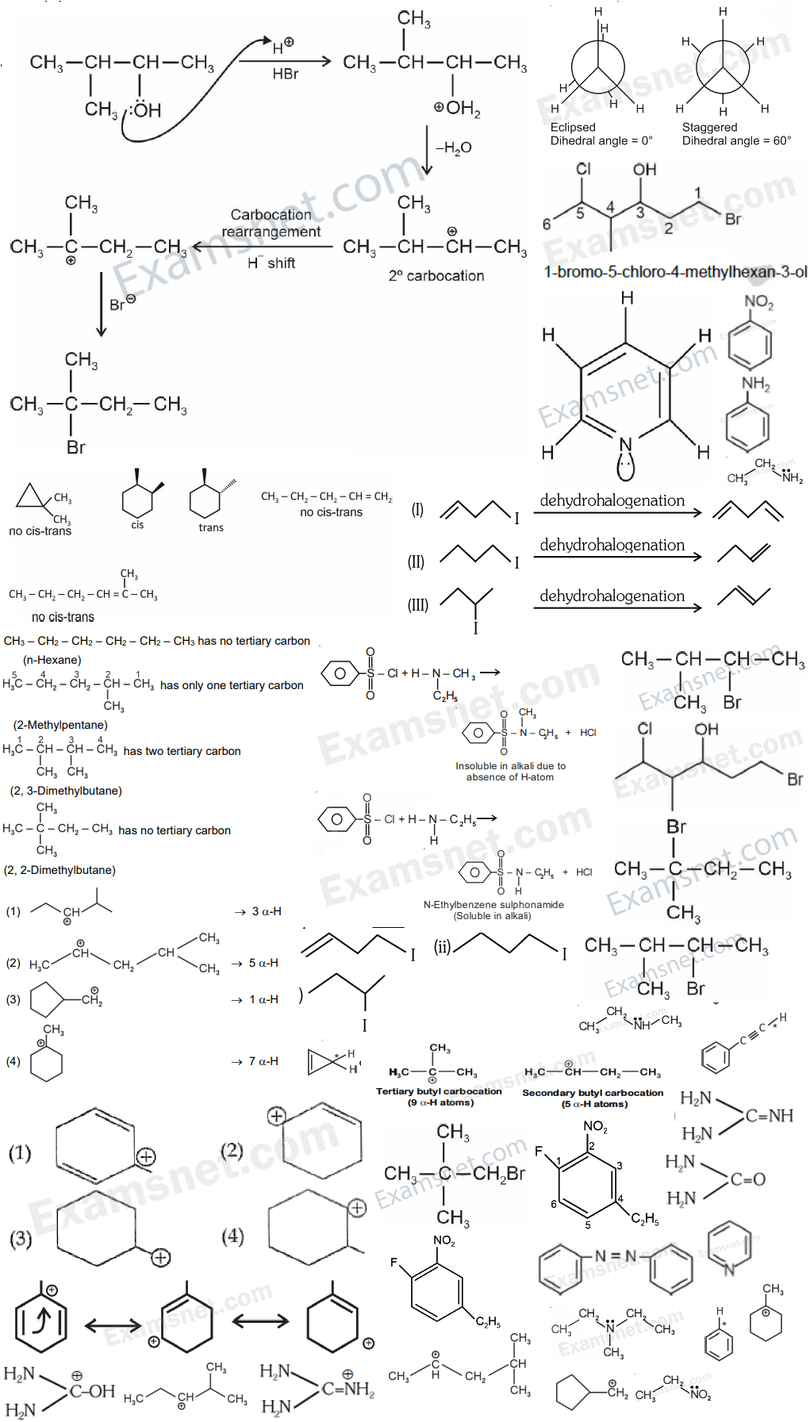
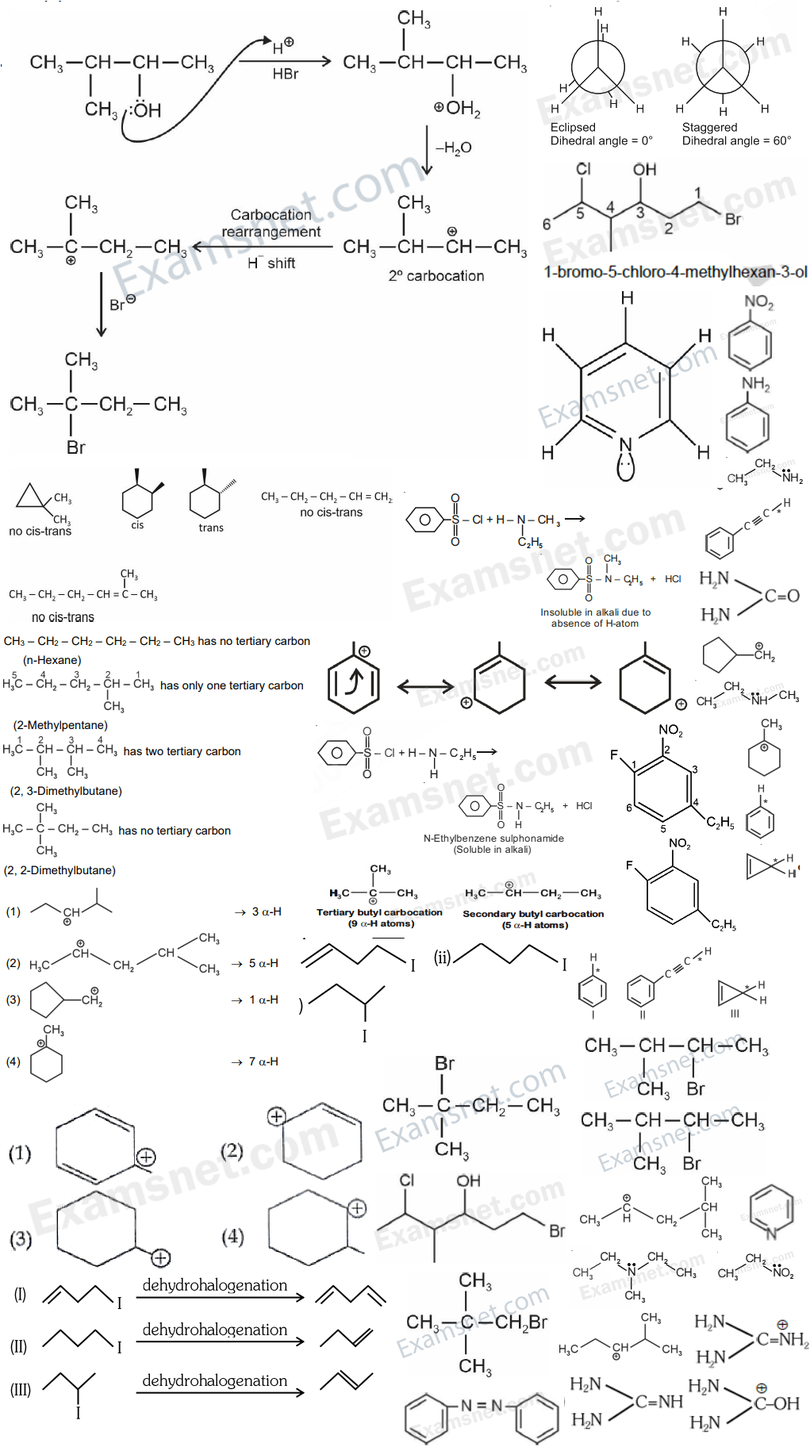
fexed

diff --git a/img/medical/neet/chchap/ch_xi_ch12_2.css b/img/medical/neet/chchap/ch_xi_ch12_2.css
@@ -7,131 +7,134 @@ Responsive: <div class="yourspritesname"></div>
 */
 
 .NEET_2020_62_PHY_CHEM_sol {max-width:379px; max-height:96px; }
-.NEET_2020_62_PHY_CHEM_sol::after {content: '\00a0';display: inline-block; width:379px; height:96px; background-position: 73.20872274143302% 77.25397760754272%; background-size: 269.39313984168865% 1867.7083333333333%; background-image: url(ch_xi_ch12_2_0.png);padding: 0; }
+.NEET_2020_62_PHY_CHEM_sol::after {content: '\00a0';display: inline-block; width:379px; height:96px; background-position: 61.52647975077882% 62.60819388343912%; background-size: 269.39313984168865% 1905.2083333333333%; background-image: url(ch_xi_ch12_2_0.png);padding: 0; }
 div.NEET_2020_62_PHY_CHEM_sol::after {max-width:379px; width:100%;height:0;padding: 0 0 25.329815303430077% 0;}
 .NEET_2021_Physics_and_Chemistry_58_s {max-width:328px; max-height:196px; }
-.NEET_2021_Physics_and_Chemistry_58_s::after {content: '\00a0';display: inline-block; width:328px; height:196px; background-position: 97.54689754689754% 0.06261740763932373%; background-size: 311.280487804878% 914.795918367347%; background-image: url(ch_xi_ch12_2_0.png);padding: 0; }
+.NEET_2021_Physics_and_Chemistry_58_s::after {content: '\00a0';display: inline-block; width:328px; height:196px; background-position: 97.54689754689754% 0.0612369871402327%; background-size: 311.280487804878% 933.1632653061224%; background-image: url(ch_xi_ch12_2_0.png);padding: 0; }
 div.NEET_2021_Physics_and_Chemistry_58_s::after {max-width:328px; width:100%;height:0;padding: 0 0 59.75609756097561% 0;}
 .NEET_2021_Physics_and_Chemistry_84_o_1 {max-width:99px; max-height:51px; }
-.NEET_2021_Physics_and_Chemistry_84_o_1::after {content: '\00a0';display: inline-block; width:99px; height:51px; background-position: 86.76789587852494% 98.90929965556832%; background-size: 1031.3131313131314% 3515.6862745098038%; background-image: url(ch_xi_ch12_2_0.png);padding: 0; }
+.NEET_2021_Physics_and_Chemistry_84_o_1::after {content: '\00a0';display: inline-block; width:99px; height:51px; background-position: 98.0477223427332% 88.24521934758155%; background-size: 1031.3131313131314% 3586.274509803922%; background-image: url(ch_xi_ch12_2_0.png);padding: 0; }
 div.NEET_2021_Physics_and_Chemistry_84_o_1::after {max-width:99px; width:100%;height:0;padding: 0 0 51.515151515151516% 0;}
 .NEET_2021_Physics_and_Chemistry_84_o_2 {max-width:147px; max-height:45px; }
-.NEET_2021_Physics_and_Chemistry_84_o_2::after {content: '\00a0';display: inline-block; width:147px; height:45px; background-position: 82.83752860411899% 72.31121281464532%; background-size: 694.5578231292517% 3984.4444444444443%; background-image: url(ch_xi_ch12_2_0.png);padding: 0; }
+.NEET_2021_Physics_and_Chemistry_84_o_2::after {content: '\00a0';display: inline-block; width:147px; height:45px; background-position: 99.77116704805492% 47.869955156950674%; background-size: 694.5578231292517% 4064.4444444444443%; background-image: url(ch_xi_ch12_2_0.png);padding: 0; }
 div.NEET_2021_Physics_and_Chemistry_84_o_2::after {max-width:147px; width:100%;height:0;padding: 0 0 30.612244897959183% 0;}
 .NEET_2021_Physics_and_Chemistry_84_o_3 {max-width:112px; max-height:41px; }
-.NEET_2021_Physics_and_Chemistry_84_o_3::after {content: '\00a0';display: inline-block; width:112px; height:41px; background-position: 99.77997799779978% 32.705479452054796%; background-size: 911.6071428571429% 4373.170731707317%; background-image: url(ch_xi_ch12_2_0.png);padding: 0; }
+.NEET_2021_Physics_and_Chemistry_84_o_3::after {content: '\00a0';display: inline-block; width:112px; height:41px; background-position: 99.77997799779978% 32.04697986577181%; background-size: 911.6071428571429% 4460.975609756098%; background-image: url(ch_xi_ch12_2_0.png);padding: 0; }
 div.NEET_2021_Physics_and_Chemistry_84_o_3::after {max-width:112px; width:100%;height:0;padding: 0 0 36.607142857142854% 0;}
 .NEET_2021_Physics_and_Chemistry_84_o_4 {max-width:184px; max-height:81px; }
-.NEET_2021_Physics_and_Chemistry_84_o_4::after {content: '\00a0';display: inline-block; width:184px; height:81px; background-position: 82.67622461170848% 95.85280373831776%; background-size: 554.8913043478261% 2213.58024691358%; background-image: url(ch_xi_ch12_2_0.png);padding: 0; }
+.NEET_2021_Physics_and_Chemistry_84_o_4::after {content: '\00a0';display: inline-block; width:184px; height:81px; background-position: 85.90203106332139% 89.75972540045767%; background-size: 554.8913043478261% 2258.0246913580245%; background-image: url(ch_xi_ch12_2_0.png);padding: 0; }
 div.NEET_2021_Physics_and_Chemistry_84_o_4::after {max-width:184px; width:100%;height:0;padding: 0 0 44.02173913043478% 0;}
 .NEET_2021_Physics_and_Chemistry_84_s {max-width:366px; max-height:176px; }
-.NEET_2021_Physics_and_Chemistry_84_s::after {content: '\00a0';display: inline-block; width:366px; height:176px; background-position: 60.30534351145038% 61.34817563388992%; background-size: 278.9617486338798% 1018.75%; background-image: url(ch_xi_ch12_2_0.png);padding: 0; }
+.NEET_2021_Physics_and_Chemistry_84_s::after {content: '\00a0';display: inline-block; width:366px; height:176px; background-position: 60.30534351145038% 54.93042952208106%; background-size: 278.9617486338798% 1039.2045454545455%; background-image: url(ch_xi_ch12_2_0.png);padding: 0; }
 div.NEET_2021_Physics_and_Chemistry_84_s::after {max-width:366px; width:100%;height:0;padding: 0 0 48.08743169398907% 0;}
 .NEET_2021_Physics_and_Chemistry_84_s_1 {max-width:374px; max-height:182px; }
-.NEET_2021_Physics_and_Chemistry_84_s_1::after {content: '\00a0';display: inline-block; width:374px; height:182px; background-position: 61.051004636785166% 50.21725636250776%; background-size: 272.9946524064171% 985.1648351648352%; background-image: url(ch_xi_ch12_2_0.png);padding: 0; }
+.NEET_2021_Physics_and_Chemistry_84_s_1::after {content: '\00a0';display: inline-block; width:374px; height:182px; background-position: 77.58887171561051% 37.34061930783242%; background-size: 272.9946524064171% 1004.945054945055%; background-image: url(ch_xi_ch12_2_0.png);padding: 0; }
 div.NEET_2021_Physics_and_Chemistry_84_s_1::after {max-width:374px; width:100%;height:0;padding: 0 0 48.663101604278076% 0;}
 .NEET_2022_PC_Q_69_O_1 {max-width:73px; max-height:107px; }
-.NEET_2022_PC_Q_69_O_1::after {content: '\00a0';display: inline-block; width:73px; height:107px; background-position: 95.67510548523207% 21.47093712930012%; background-size: 1398.6301369863013% 1675.7009345794393%; background-image: url(ch_xi_ch12_2_0.png);padding: 0; }
+.NEET_2022_PC_Q_69_O_1::after {content: '\00a0';display: inline-block; width:73px; height:107px; background-position: 95.67510548523207% 21.022067363530777%; background-size: 1398.6301369863013% 1709.3457943925234%; background-image: url(ch_xi_ch12_2_0.png);padding: 0; }
 div.NEET_2022_PC_Q_69_O_1::after {max-width:73px; width:100%;height:0;padding: 0 0 146.57534246575344% 0;}
 .NEET_2022_PC_Q_69_O_2 {max-width:80px; max-height:83px; }
-.NEET_2022_PC_Q_69_O_2::after {content: '\00a0';display: inline-block; width:80px; height:83px; background-position: 93.51753453772582% 89.41520467836257%; background-size: 1276.25% 2160.240963855422%; background-image: url(ch_xi_ch12_2_0.png);padding: 0; }
+.NEET_2022_PC_Q_69_O_2::after {content: '\00a0';display: inline-block; width:80px; height:83px; background-position: 99.14984059511158% 84.93699885452463%; background-size: 1276.25% 2203.614457831325%; background-image: url(ch_xi_ch12_2_0.png);padding: 0; }
 div.NEET_2022_PC_Q_69_O_2::after {max-width:80px; width:100%;height:0;padding: 0 0 103.75% 0;}
 .NEET_2022_PC_Q_69_O_3 {max-width:70px; max-height:102px; }
-.NEET_2022_PC_Q_69_O_3::after {content: '\00a0';display: inline-block; width:70px; height:102px; background-position: 95.3732912723449% 27.794204612655232%; background-size: 1458.5714285714287% 1757.8431372549019%; background-image: url(ch_xi_ch12_2_0.png);padding: 0; }
+.NEET_2022_PC_Q_69_O_3::after {content: '\00a0';display: inline-block; width:70px; height:102px; background-position: 95.3732912723449% 27.214823393167343%; background-size: 1458.5714285714287% 1793.137254901961%; background-image: url(ch_xi_ch12_2_0.png);padding: 0; }
 div.NEET_2022_PC_Q_69_O_3::after {max-width:70px; width:100%;height:0;padding: 0 0 145.71428571428572% 0;}
 .NEET_2022_PC_Q_69_O_4 {max-width:212px; max-height:87px; }
-.NEET_2022_PC_Q_69_O_4::after {content: '\00a0';display: inline-block; width:212px; height:87px; background-position: 82.44746600741657% 91.031652989449%; background-size: 481.60377358490564% 2060.919540229885%; background-image: url(ch_xi_ch12_2_0.png);padding: 0; }
+.NEET_2022_PC_Q_69_O_4::after {content: '\00a0';display: inline-block; width:212px; height:87px; background-position: 61.557478368355994% 99.94259471871412%; background-size: 481.60377358490564% 2102.2988505747126%; background-image: url(ch_xi_ch12_2_0.png);padding: 0; }
 div.NEET_2022_PC_Q_69_O_4::after {max-width:212px; width:100%;height:0;padding: 0 0 41.0377358490566% 0;}
 .NEET_2022_PC_Q_90 {max-width:248px; max-height:123px; }
-.NEET_2022_PC_Q_90::after {content: '\00a0';display: inline-block; width:248px; height:123px; background-position: 99.61190168175938% 54.01197604790419%; background-size: 411.69354838709677% 1457.7235772357724%; background-image: url(ch_xi_ch12_2_0.png);padding: 0; }
+.NEET_2022_PC_Q_90::after {content: '\00a0';display: inline-block; width:248px; height:123px; background-position: 60.80206985769728% 86.2250879249707%; background-size: 411.69354838709677% 1486.9918699186992%; background-image: url(ch_xi_ch12_2_0.png);padding: 0; }
 div.NEET_2022_PC_Q_90::after {max-width:248px; width:100%;height:0;padding: 0 0 49.596774193548384% 0;}
 .NEET_2022_PC_S_90 {max-width:343px; max-height:163px; }
-.NEET_2022_PC_S_90::after {content: '\00a0';display: inline-block; width:343px; height:163px; background-position: 99.70501474926253% 12.14723926380368%; background-size: 297.667638483965% 1100%; background-image: url(ch_xi_ch12_2_0.png);padding: 0; }
+.NEET_2022_PC_S_90::after {content: '\00a0';display: inline-block; width:343px; height:163px; background-position: 99.70501474926253% 11.884753901560623%; background-size: 297.667638483965% 1122.0858895705521%; background-image: url(ch_xi_ch12_2_0.png);padding: 0; }
 div.NEET_2022_PC_S_90::after {max-width:343px; width:100%;height:0;padding: 0 0 47.521865889212826% 0;}
 .NEET_2023_PHY_CHE_Q_80_O_1 {max-width:137px; max-height:80px; }
-.NEET_2023_PHY_CHE_Q_80_O_1::after {content: '\00a0';display: inline-block; width:137px; height:80px; background-position: 94.34389140271493% 84.53006421482779%; background-size: 745.2554744525547% 2241.25%; background-image: url(ch_xi_ch12_2_0.png);padding: 0; }
+.NEET_2023_PHY_CHE_Q_80_O_1::after {content: '\00a0';display: inline-block; width:137px; height:80px; background-position: 99.2081447963801% 40.708976558033164%; background-size: 745.2554744525547% 2286.25%; background-image: url(ch_xi_ch12_2_0.png);padding: 0; }
 div.NEET_2023_PHY_CHE_Q_80_O_1::after {max-width:137px; width:100%;height:0;padding: 0 0 58.394160583941606% 0;}
 .NEET_2023_PHY_CHE_Q_80_O_2 {max-width:145px; max-height:78px; }
-.NEET_2023_PHY_CHE_Q_80_O_2::after {content: '\00a0';display: inline-block; width:145px; height:78px; background-position: 0.1141552511415525% 99.94169096209913%; background-size: 704.1379310344828% 2298.7179487179487%; background-image: url(ch_xi_ch12_2_0.png);padding: 0; }
+.NEET_2023_PHY_CHE_Q_80_O_2::after {content: '\00a0';display: inline-block; width:145px; height:78px; background-position: 98.63013698630137% 98.74357509994289%; background-size: 704.1379310344828% 2344.871794871795%; background-image: url(ch_xi_ch12_2_0.png);padding: 0; }
 div.NEET_2023_PHY_CHE_Q_80_O_2::after {max-width:145px; width:100%;height:0;padding: 0 0 53.793103448275865% 0;}
 .NEET_2023_PHY_CHE_Q_80_O_3 {max-width:152px; max-height:86px; }
-.NEET_2023_PHY_CHE_Q_80_O_3::after {content: '\00a0';display: inline-block; width:152px; height:86px; background-position: 97.81357882623705% 79.73052138254248%; background-size: 671.7105263157895% 2084.8837209302324%; background-image: url(ch_xi_ch12_2_0.png);padding: 0; }
+.NEET_2023_PHY_CHE_Q_80_O_3::after {content: '\00a0';display: inline-block; width:152px; height:86px; background-position: 81.81818181818181% 98.7378083763626%; background-size: 671.7105263157895% 2126.7441860465115%; background-image: url(ch_xi_ch12_2_0.png);padding: 0; }
 div.NEET_2023_PHY_CHE_Q_80_O_3::after {max-width:152px; width:100%;height:0;padding: 0 0 56.578947368421055% 0;}
 .NEET_2023_PHY_CHE_Q_80_O_4 {max-width:148px; max-height:77px; }
-.NEET_2023_PHY_CHE_Q_80_O_4::after {content: '\00a0';display: inline-block; width:148px; height:77px; background-position: 37.11340206185567% 99.88344988344988%; background-size: 689.8648648648649% 2328.5714285714284%; background-image: url(ch_xi_ch12_2_0.png);padding: 0; }
+.NEET_2023_PHY_CHE_Q_80_O_4::after {content: '\00a0';display: inline-block; width:148px; height:77px; background-position: 99.88545246277205% 94.2351598173516%; background-size: 689.8648648648649% 2375.3246753246754%; background-image: url(ch_xi_ch12_2_0.png);padding: 0; }
 div.NEET_2023_PHY_CHE_Q_80_O_4::after {max-width:148px; width:100%;height:0;padding: 0 0 52.027027027027025% 0;}
 .NEET_2023_PHY_CHE_Q_85 {max-width:347px; max-height:141px; }
-.NEET_2023_PHY_CHE_Q_85::after {content: '\00a0';display: inline-block; width:347px; height:141px; background-position: 55.78635014836795% 70.76271186440678%; background-size: 294.23631123919307% 1271.6312056737588%; background-image: url(ch_xi_ch12_2_0.png);padding: 0; }
+.NEET_2023_PHY_CHE_Q_85::after {content: '\00a0';display: inline-block; width:347px; height:141px; background-position: 55.78635014836795% 70.02369668246446%; background-size: 294.23631123919307% 1297.163120567376%; background-image: url(ch_xi_ch12_2_0.png);padding: 0; }
 div.NEET_2023_PHY_CHE_Q_85::after {max-width:347px; width:100%;height:0;padding: 0 0 40.63400576368876% 0;}
 .NEET_2023_PHY_CHE_S_85 {max-width:496px; max-height:193px; }
-.NEET_2023_PHY_CHE_S_85::after {content: '\00a0';display: inline-block; width:496px; height:193px; background-position: 95.61904761904762% 38.4375%; background-size: 205.84677419354838% 929.0155440414508%; background-image: url(ch_xi_ch12_2_0.png);padding: 0; }
+.NEET_2023_PHY_CHE_S_85::after {content: '\00a0';display: inline-block; width:496px; height:193px; background-position: 0.19047619047619047% 98.0440097799511%; background-size: 205.84677419354838% 947.6683937823834%; background-image: url(ch_xi_ch12_2_0.png);padding: 0; }
 div.NEET_2023_PHY_CHE_S_85::after {max-width:496px; width:100%;height:0;padding: 0 0 38.91129032258065% 0;}
 .NEET_2024_60_o_1 {max-width:176px; max-height:69px; }
-.NEET_2024_60_o_1::after {content: '\00a0';display: inline-block; width:176px; height:69px; background-position: 17.39644970414201% 99.4199535962877%; background-size: 580.1136363636364% 2598.550724637681%; background-image: url(ch_xi_ch12_2_0.png);padding: 0; }
+.NEET_2024_60_o_1::after {content: '\00a0';display: inline-block; width:176px; height:69px; background-position: 82.24852071005917% 93.80681818181819%; background-size: 580.1136363636364% 2650.7246376811595%; background-image: url(ch_xi_ch12_2_0.png);padding: 0; }
 div.NEET_2024_60_o_1::after {max-width:176px; width:100%;height:0;padding: 0 0 39.20454545454545% 0;}
 .NEET_2024_60_o_2 {max-width:213px; max-height:85px; }
-.NEET_2024_60_o_2::after {content: '\00a0';display: inline-block; width:213px; height:85px; background-position: 59.15841584158416% 98.4192037470726%; background-size: 479.34272300469485% 2109.4117647058824%; background-image: url(ch_xi_ch12_2_0.png);padding: 0; }
+.NEET_2024_60_o_2::after {content: '\00a0';display: inline-block; width:213px; height:85px; background-position: 88.98514851485149% 85.03440366972477%; background-size: 479.34272300469485% 2151.764705882353%; background-image: url(ch_xi_ch12_2_0.png);padding: 0; }
 div.NEET_2024_60_o_2::after {max-width:213px; width:100%;height:0;padding: 0 0 39.906103286384976% 0;}
 .NEET_2024_60_o_3 {max-width:107px; max-height:60px; }
-.NEET_2024_60_o_3::after {content: '\00a0';display: inline-block; width:107px; height:60px; background-position: 75.71115973741794% 99.42296595499134%; background-size: 954.2056074766355% 2988.3333333333335%; background-image: url(ch_xi_ch12_2_0.png);padding: 0; }
+.NEET_2024_60_o_3::after {content: '\00a0';display: inline-block; width:107px; height:60px; background-position: 95.95185995623632% 44.827586206896555%; background-size: 954.2056074766355% 3048.3333333333335%; background-image: url(ch_xi_ch12_2_0.png);padding: 0; }
 div.NEET_2024_60_o_3::after {max-width:107px; width:100%;height:0;padding: 0 0 56.074766355140184% 0;}
 .NEET_2024_60_o_4 {max-width:71px; max-height:81px; }
-.NEET_2024_60_o_4::after {content: '\00a0';display: inline-block; width:71px; height:81px; background-position: 98% 94.21728971962617%; background-size: 1438.0281690140846% 2213.58024691358%; background-image: url(ch_xi_ch12_2_0.png);padding: 0; }
+.NEET_2024_60_o_4::after {content: '\00a0';display: inline-block; width:71px; height:81px; background-position: 97.78947368421052% 51.48741418764302%; background-size: 1438.0281690140846% 2258.0246913580245%; background-image: url(ch_xi_ch12_2_0.png);padding: 0; }
 div.NEET_2024_60_o_4::after {max-width:71px; width:100%;height:0;padding: 0 0 114.08450704225352% 0;}
 .NEET_2024_60_s {max-width:374px; max-height:255px; }
-.NEET_2024_60_s::after {content: '\00a0';display: inline-block; width:374px; height:255px; background-position: 0.1545595054095827% 72.3667100130039%; background-size: 272.9946524064171% 703.1372549019608%; background-image: url(ch_xi_ch12_2_0.png);padding: 0; }
+.NEET_2024_60_s::after {content: '\00a0';display: inline-block; width:374px; height:255px; background-position: 0.1545595054095827% 70.71156289707751%; background-size: 272.9946524064171% 717.2549019607843%; background-image: url(ch_xi_ch12_2_0.png);padding: 0; }
 div.NEET_2024_60_s::after {max-width:374px; width:100%;height:0;padding: 0 0 68.18181818181819% 0;}
 .NEET_2024_79_s {max-width:393px; max-height:314px; }
-.NEET_2024_79_s::after {content: '\00a0';display: inline-block; width:393px; height:314px; background-position: 0.1592356687898089% 53.9553752535497%; background-size: 259.7964376590331% 571.0191082802547%; background-image: url(ch_xi_ch12_2_0.png);padding: 0; }
+.NEET_2024_79_s::after {content: '\00a0';display: inline-block; width:393px; height:314px; background-position: 0.1592356687898089% 52.67326732673267%; background-size: 259.7964376590331% 582.484076433121%; background-image: url(ch_xi_ch12_2_0.png);padding: 0; }
 div.NEET_2024_79_s::after {max-width:393px; width:100%;height:0;padding: 0 0 79.89821882951654% 0;}
 .NEET_2024_RE_ENG_65_q {max-width:153px; max-height:126px; }
-.NEET_2024_RE_ENG_65_q::after {content: '\00a0';display: inline-block; width:153px; height:126px; background-position: 55.06912442396313% 93.22135572885423%; background-size: 667.3202614379085% 1423.015873015873%; background-image: url(ch_xi_ch12_2_0.png);padding: 0; }
+.NEET_2024_RE_ENG_65_q::after {content: '\00a0';display: inline-block; width:153px; height:126px; background-position: 89.28571428571429% 61.83206106870229%; background-size: 667.3202614379085% 1451.5873015873017%; background-image: url(ch_xi_ch12_2_0.png);padding: 0; }
 div.NEET_2024_RE_ENG_65_q::after {max-width:153px; width:100%;height:0;padding: 0 0 82.3529411764706% 0;}
 .NEET_2024_RE_ENG_65_s {max-width:166px; max-height:144px; }
-.NEET_2024_RE_ENG_65_s::after {content: '\00a0';display: inline-block; width:166px; height:144px; background-position: 78.01169590643275% 85.38508186779866%; background-size: 615.0602409638554% 1245.138888888889%; background-image: url(ch_xi_ch12_2_0.png);padding: 0; }
+.NEET_2024_RE_ENG_65_s::after {content: '\00a0';display: inline-block; width:166px; height:144px; background-position: 89.12280701754386% 53.88724035608308%; background-size: 615.0602409638554% 1270.138888888889%; background-image: url(ch_xi_ch12_2_0.png);padding: 0; }
 div.NEET_2024_RE_ENG_65_s::after {max-width:166px; width:100%;height:0;padding: 0 0 86.74698795180723% 0;}
 .neet_2023_f1_phy_chem_56 {max-width:250px; max-height:92px; }
-.neet_2023_f1_phy_chem_56::after {content: '\00a0';display: inline-block; width:250px; height:92px; background-position: 99.87029831387808% 47.56025867136978%; background-size: 408.4% 1948.9130434782608%; background-image: url(ch_xi_ch12_2_0.png);padding: 0; }
+.neet_2023_f1_phy_chem_56::after {content: '\00a0';display: inline-block; width:250px; height:92px; background-position: 93.25551232166018% 80.02302820955671%; background-size: 408.4% 1988.0434782608695%; background-image: url(ch_xi_ch12_2_0.png);padding: 0; }
 div.neet_2023_f1_phy_chem_56::after {max-width:250px; width:100%;height:0;padding: 0 0 36.8% 0;}
 .neet_2023_f1_phy_chem_56_a {max-width:252px; max-height:90px; }
-.neet_2023_f1_phy_chem_56_a::after {content: '\00a0';display: inline-block; width:252px; height:90px; background-position: 94.148244473342% 68.87844979448033%; background-size: 405.1587301587302% 1992.2222222222222%; background-image: url(ch_xi_ch12_2_0.png);padding: 0; }
+.neet_2023_f1_phy_chem_56_a::after {content: '\00a0';display: inline-block; width:252px; height:90px; background-position: 94.148244473342% 74.69810235767683%; background-size: 405.1587301587302% 2032.2222222222222%; background-image: url(ch_xi_ch12_2_0.png);padding: 0; }
 div.neet_2023_f1_phy_chem_56_a::after {max-width:252px; width:100%;height:0;padding: 0 0 35.714285714285715% 0;}
 .neet_2023_f1_phy_chem_56_b {max-width:196px; max-height:145px; }
-.neet_2023_f1_phy_chem_56_b::after {content: '\00a0';display: inline-block; width:196px; height:145px; background-position: 56.96969696969697% 85.4368932038835%; background-size: 520.9183673469388% 1236.551724137931%; background-image: url(ch_xi_ch12_2_0.png);padding: 0; }
+.neet_2023_f1_phy_chem_56_b::after {content: '\00a0';display: inline-block; width:196px; height:145px; background-position: 60.36363636363637% 94.71496437054631%; background-size: 520.9183673469388% 1261.3793103448277%; background-image: url(ch_xi_ch12_2_0.png);padding: 0; }
 div.neet_2023_f1_phy_chem_56_b::after {max-width:196px; width:100%;height:0;padding: 0 0 73.9795918367347% 0;}
 .neet_2023_f1_phy_chem_56_c {max-width:245px; max-height:146px; }
-.neet_2023_f1_phy_chem_56_c::after {content: '\00a0';display: inline-block; width:245px; height:146px; background-position: 98.19587628865979% 62.295081967213115%; background-size: 416.734693877551% 1228.0821917808219%; background-image: url(ch_xi_ch12_2_0.png);padding: 0; }
+.neet_2023_f1_phy_chem_56_c::after {content: '\00a0';display: inline-block; width:245px; height:146px; background-position: 60.56701030927835% 78.66904337492572%; background-size: 416.734693877551% 1252.7397260273972%; background-image: url(ch_xi_ch12_2_0.png);padding: 0; }
 div.neet_2023_f1_phy_chem_56_c::after {max-width:245px; width:100%;height:0;padding: 0 0 59.59183673469388% 0;}
 .neet_2023_f1_phy_chem_56_sol {max-width:674px; max-height:576px; }
-.neet_2023_f1_phy_chem_56_sol::after {content: '\00a0';display: inline-block; width:674px; height:576px; background-position: 0.2881844380403458% 0.08216926869350863%; background-size: 151.48367952522256% 311.28472222222223%; background-image: url(ch_xi_ch12_2_0.png);padding: 0; }
+.neet_2023_f1_phy_chem_56_sol::after {content: '\00a0';display: inline-block; width:674px; height:576px; background-position: 0.2881844380403458% 0.07980845969672785%; background-size: 151.48367952522256% 317.53472222222223%; background-image: url(ch_xi_ch12_2_0.png);padding: 0; }
 div.neet_2023_f1_phy_chem_56_sol::after {max-width:674px; width:100%;height:0;padding: 0 0 85.45994065281899% 0;}
 .neet_2023_f1_phy_chem_85 {max-width:230px; max-height:252px; }
-.neet_2023_f1_phy_chem_85::after {content: '\00a0';display: inline-block; width:230px; height:252px; background-position: 85.4614412136536% 23.491239454899414%; background-size: 443.9130434782609% 711.5079365079365%; background-image: url(ch_xi_ch12_2_0.png);padding: 0; }
+.neet_2023_f1_phy_chem_85::after {content: '\00a0';display: inline-block; width:230px; height:252px; background-position: 85.4614412136536% 22.954977805960684%; background-size: 443.9130434782609% 725.7936507936508%; background-image: url(ch_xi_ch12_2_0.png);padding: 0; }
 div.neet_2023_f1_phy_chem_85::after {max-width:230px; width:100%;height:0;padding: 0 0 109.56521739130434% 0;}
+.neet_2025_pc_q_75 {max-width:255px; max-height:116px; }
+.neet_2025_pc_q_75::after {content: '\00a0';display: inline-block; width:255px; height:116px; background-position: 94.51697127937337% 69.00175131348512%; background-size: 400.3921568627451% 1576.7241379310344%; background-image: url(ch_xi_ch12_2_0.png);padding: 0; }
+div.neet_2025_pc_q_75::after {max-width:255px; width:100%;height:0;padding: 0 0 45.490196078431374% 0;}
 .neet_2025_pc_sol_75a {max-width:53px; max-height:81px; }
-.neet_2025_pc_sol_75a::after {content: '\00a0';display: inline-block; width:53px; height:81px; background-position: 90.59917355371901% 95.85280373831776%; background-size: 1926.4150943396226% 2213.58024691358%; background-image: url(ch_xi_ch12_2_0.png);padding: 0; }
+.neet_2025_pc_sol_75a::after {content: '\00a0';display: inline-block; width:53px; height:81px; background-position: 95.97107438016529% 56.17848970251716%; background-size: 1926.4150943396226% 2258.0246913580245%; background-image: url(ch_xi_ch12_2_0.png);padding: 0; }
 div.neet_2025_pc_sol_75a::after {max-width:53px; width:100%;height:0;padding: 0 0 152.83018867924528% 0;}
 .neet_2025_pc_sol_75b {max-width:122px; max-height:96px; }
-.neet_2025_pc_sol_75b::after {content: '\00a0';display: inline-block; width:122px; height:96px; background-position: 96.99666295884316% 74.48438420742487%; background-size: 836.8852459016393% 1867.7083333333333%; background-image: url(ch_xi_ch12_2_0.png);padding: 0; }
+.neet_2025_pc_sol_75b::after {content: '\00a0';display: inline-block; width:122px; height:96px; background-position: 97.55283648498332% 35.48759376803231%; background-size: 836.8852459016393% 1905.2083333333333%; background-image: url(ch_xi_ch12_2_0.png);padding: 0; }
 div.neet_2025_pc_sol_75b::after {max-width:122px; width:100%;height:0;padding: 0 0 78.68852459016394% 0;}
 .neet_2025_pc_sol_75c {max-width:79px; max-height:49px; }
-.neet_2025_pc_sol_75c::after {content: '\00a0';display: inline-block; width:79px; height:49px; background-position: 39.91507430997877% 75.17201834862385%; background-size: 1292.4050632911392% 3659.183673469388%; background-image: url(ch_xi_ch12_2_0.png);padding: 0; }
+.neet_2025_pc_sol_75c::after {content: '\00a0';display: inline-block; width:79px; height:49px; background-position: 98.61995753715499% 59.7752808988764%; background-size: 1292.4050632911392% 3732.6530612244896%; background-image: url(ch_xi_ch12_2_0.png);padding: 0; }
 div.neet_2025_pc_sol_75c::after {max-width:79px; width:100%;height:0;padding: 0 0 62.0253164556962% 0;}
 .neet_2025_pc_sol_85 {max-width:500px; max-height:219px; }
-.neet_2025_pc_sol_85::after {content: '\00a0';display: inline-block; width:500px; height:219px; background-position: 0.19193857965451055% 36.72172808132147%; background-size: 204.2% 818.7214611872146%; background-image: url(ch_xi_ch12_2_0.png);padding: 0; }
+.neet_2025_pc_sol_85::after {content: '\00a0';display: inline-block; width:500px; height:219px; background-position: 0.19193857965451055% 35.900621118012424%; background-size: 204.2% 835.1598173515981%; background-image: url(ch_xi_ch12_2_0.png);padding: 0; }
 div.neet_2025_pc_sol_85::after {max-width:500px; width:100%;height:0;padding: 0 0 43.8% 0;}
 .neet_re_ph_2022_88 {max-width:468px; max-height:234px; }
-.neet_re_ph_2022_88::after {content: '\00a0';display: inline-block; width:468px; height:234px; background-position: 0.18083182640144665% 87.81270044900577%; background-size: 218.16239316239316% 766.2393162393163%; background-image: url(ch_xi_ch12_2_0.png);padding: 0; }
+.neet_re_ph_2022_88::after {content: '\00a0';display: inline-block; width:468px; height:234px; background-position: 0.18083182640144665% 85.8307210031348%; background-size: 218.16239316239316% 781.6239316239316%; background-image: url(ch_xi_ch12_2_0.png);padding: 0; }
 div.neet_re_ph_2022_88::after {max-width:468px; width:100%;height:0;padding: 0 0 50% 0;}
 .neet_re_ph_2022_88_sol {max-width:476px; max-height:109px; }
-.neet_re_ph_2022_88_sol::after {content: '\00a0';display: inline-block; width:476px; height:109px; background-position: 0.1834862385321101% 95.24940617577197%; background-size: 214.49579831932772% 1644.954128440367%; background-image: url(ch_xi_ch12_2_0.png);padding: 0; }
+.neet_re_ph_2022_88_sol::after {content: '\00a0';display: inline-block; width:476px; height:109px; background-position: 72.4770642201835% 46.395348837209305%; background-size: 214.49579831932772% 1677.9816513761468%; background-image: url(ch_xi_ch12_2_0.png);padding: 0; }
 div.neet_re_ph_2022_88_sol::after {max-width:476px; width:100%;height:0;padding: 0 0 22.899159663865547% 0;}
 
 @keyframes NEET_2021_Physics_and_Chemistry_84_o-frames {
-    0% { background-position: 86.76789587852494% 98.90929965556832%;  }
-    25% { background-position: 82.83752860411899% 72.31121281464532%;  }
-    50% { background-position: 99.77997799779978% 32.705479452054796%;  }
-    75% { background-position: 82.67622461170848% 95.85280373831776%;  }
+    0% { background-position: 98.0477223427332% 88.24521934758155%;  }
+    25% { background-position: 99.77116704805492% 47.869955156950674%;  }
+    50% { background-position: 99.77997799779978% 32.04697986577181%;  }
+    75% { background-position: 85.90203106332139% 89.75972540045767%;  }
 }
 
 .NEET_2021_Physics_and_Chemistry_84_o-animation {
@@ -145,7 +148,7 @@ div.neet_re_ph_2022_88_sol::after {max-width:476px; width:100%;height:0;padding:
     height: 51px;
     padding: 0;
     background-image: url(ch_xi_ch12_2_0.png);
-    background-size: 1031.3131313131314% 3515.6862745098038%; 
+    background-size: 1031.3131313131314% 3586.274509803922%; 
     animation-name: NEET_2021_Physics_and_Chemistry_84_o-frames;
     animation-timing-function: steps(1);
     animation-duration: 1s;
@@ -159,10 +162,10 @@ div.NEET_2021_Physics_and_Chemistry_84_o-animation::after {
 }
 
 @keyframes NEET_2022_PC_Q_69_O-frames {
-    0% { background-position: 95.67510548523207% 21.47093712930012%;  }
-    25% { background-position: 93.51753453772582% 89.41520467836257%;  }
-    50% { background-position: 95.3732912723449% 27.794204612655232%;  }
-    75% { background-position: 82.44746600741657% 91.031652989449%;  }
+    0% { background-position: 95.67510548523207% 21.022067363530777%;  }
+    25% { background-position: 99.14984059511158% 84.93699885452463%;  }
+    50% { background-position: 95.3732912723449% 27.214823393167343%;  }
+    75% { background-position: 61.557478368355994% 99.94259471871412%;  }
 }
 
 .NEET_2022_PC_Q_69_O-animation {
@@ -176,7 +179,7 @@ div.NEET_2021_Physics_and_Chemistry_84_o-animation::after {
     height: 107px;
     padding: 0;
     background-image: url(ch_xi_ch12_2_0.png);
-    background-size: 1398.6301369863013% 1675.7009345794393%; 
+    background-size: 1398.6301369863013% 1709.3457943925234%; 
     animation-name: NEET_2022_PC_Q_69_O-frames;
     animation-timing-function: steps(1);
     animation-duration: 1s;
@@ -190,10 +193,10 @@ div.NEET_2022_PC_Q_69_O-animation::after {
 }
 
 @keyframes NEET_2023_PHY_CHE_Q_80_O-frames {
-    0% { background-position: 94.34389140271493% 84.53006421482779%;  }
-    25% { background-position: 0.1141552511415525% 99.94169096209913%;  }
-    50% { background-position: 97.81357882623705% 79.73052138254248%;  }
-    75% { background-position: 37.11340206185567% 99.88344988344988%;  }
+    0% { background-position: 99.2081447963801% 40.708976558033164%;  }
+    25% { background-position: 98.63013698630137% 98.74357509994289%;  }
+    50% { background-position: 81.81818181818181% 98.7378083763626%;  }
+    75% { background-position: 99.88545246277205% 94.2351598173516%;  }
 }
 
 .NEET_2023_PHY_CHE_Q_80_O-animation {
@@ -207,7 +210,7 @@ div.NEET_2022_PC_Q_69_O-animation::after {
     height: 80px;
     padding: 0;
     background-image: url(ch_xi_ch12_2_0.png);
-    background-size: 745.2554744525547% 2241.25%; 
+    background-size: 745.2554744525547% 2286.25%; 
     animation-name: NEET_2023_PHY_CHE_Q_80_O-frames;
     animation-timing-function: steps(1);
     animation-duration: 1s;
@@ -221,10 +224,10 @@ div.NEET_2023_PHY_CHE_Q_80_O-animation::after {
 }
 
 @keyframes NEET_2024_60_o-frames {
-    0% { background-position: 17.39644970414201% 99.4199535962877%;  }
-    25% { background-position: 59.15841584158416% 98.4192037470726%;  }
-    50% { background-position: 75.71115973741794% 99.42296595499134%;  }
-    75% { background-position: 98% 94.21728971962617%;  }
+    0% { background-position: 82.24852071005917% 93.80681818181819%;  }
+    25% { background-position: 88.98514851485149% 85.03440366972477%;  }
+    50% { background-position: 95.95185995623632% 44.827586206896555%;  }
+    75% { background-position: 97.78947368421052% 51.48741418764302%;  }
 }
 
 .NEET_2024_60_o-animation {
@@ -238,7 +241,7 @@ div.NEET_2023_PHY_CHE_Q_80_O-animation::after {
     height: 69px;
     padding: 0;
     background-image: url(ch_xi_ch12_2_0.png);
-    background-size: 580.1136363636364% 2598.550724637681%; 
+    background-size: 580.1136363636364% 2650.7246376811595%; 
     animation-name: NEET_2024_60_o-frames;
     animation-timing-function: steps(1);
     animation-duration: 1s;
@@ -252,8 +255,8 @@ div.NEET_2024_60_o-animation::after {
 }
 
 @keyframes neet_2023_f1_phy_chem-frames {
-    0% { background-position: 99.87029831387808% 47.56025867136978%;  }
-    50% { background-position: 85.4614412136536% 23.491239454899414%;  }
+    0% { background-position: 93.25551232166018% 80.02302820955671%;  }
+    50% { background-position: 85.4614412136536% 22.954977805960684%;  }
 }
 
 .neet_2023_f1_phy_chem-animation {
@@ -267,7 +270,7 @@ div.NEET_2024_60_o-animation::after {
     height: 92px;
     padding: 0;
     background-image: url(ch_xi_ch12_2_0.png);
-    background-size: 408.4% 1948.9130434782608%; 
+    background-size: 408.4% 1988.0434782608695%; 
     animation-name: neet_2023_f1_phy_chem-frames;
     animation-timing-function: steps(1);
     animation-duration: 1s;
@@ -280,4 +283,4 @@ div.neet_2023_f1_phy_chem-animation::after {
     padding: 0 0 36.8% 0;
 }
 
-/* $TexturePacker:SmartUpdate:5e962a2e74a82e8a3ac3cf605612fbe5:3c15c718dcfc81d0d493ef29ed2d9d13:52eafc55320c8b16312fc47014c74f39$ */
+/* $TexturePacker:SmartUpdate:f26800ccd1487643594347e79f8c5896:bcc9fbf73a7de1189a26b1a387db3e1e:52eafc55320c8b16312fc47014c74f39$ */
